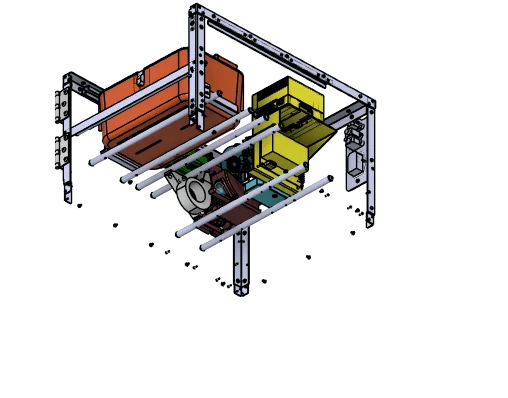
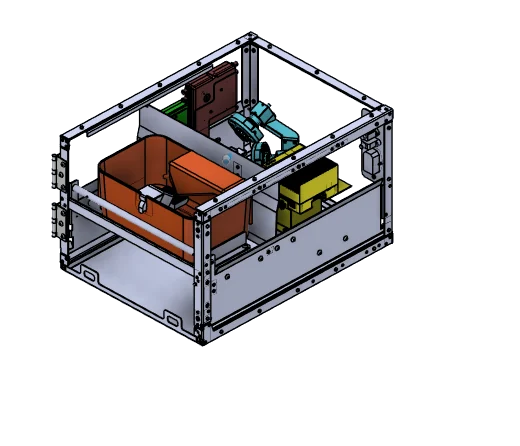
Reorganize work around the reach-training lineage
The three systems are one lineage, not three peers: reach-training, which
Ben helped build first, was superseded by the autonomous trainer, and the
trainer's codebase was then re-adapted back into reachAQ. Presenting all
three as separate entries would repeat itself, so:

- Project 02 is rewritten to cover the rig AND the control system, per
  the ask. It is now "Autonomous Behavioral Training Rig" and leads with
  the CAD work, since the 215-part enclosure and the three-axis pellet
  mechanism are Ben's design, not just the software on top.
- reachAQ is added as its own entry, because it demonstrates different
  skills: platform migration off embedded hardware, an instrumentation
  swap (PEAK CAN for Jetson-native CAN, NI-DAQ and PXI added), and a
  reproducible offline install for restricted networks.
- reach-training is context inside the reachAQ entry rather than a fourth
  entry, since the contribution there was partial.

Deliberately keeps the packaging emphasis in project 05 rather than
duplicating it in reachAQ, and words reachAQ as acquisition against the
motion-analysis entry's downstream analysis so the two do not collide.

The rig animation moves out of the hero into project 02's case study,
which required switching from scroll(root) to view(): the timeline has to
be relative to the figure now that it sits far below the fold.

Corrects a false claim from the previous commit. A closed <details> does
[…]

diff --git a/src/siteData.js b/src/siteData.js
@@ -152,23 +152,46 @@ export const projects = [
   },
   {
     id: "automated-multicamera-training-control-system",
-    title: "Closed-Loop Behavioral Training and Multi-Camera Acquisition",
+    title: "Autonomous Behavioral Training Rig",
     category: "automation",
-    tags: ["automation", "hardware", "data"],
+    tags: ["automation", "hardware", "data", "software"],
+    featured: true,
+    figure: "buildup",
+    summary:
+      "A self-operating neuroscience rig. I designed the enclosure and its mechanisms, then integrated synchronized cameras, a three-axis pellet delivery, and machine-learning tracking into a loop that runs training sessions with nobody in the room.",
+    challenge:
+      "Reach training needed an operator present for every session, which capped throughput and made results depend on who was running the rig.",
+    approach:
+      "Designed the enclosure, pellet mechanism, and mounts in CAD, then integrated multi-camera acquisition, DeepLabCut tracking, CAN bus motor control, and load-cell sensing into a closed loop with tone cues, barrier servos, and recovery paths for unattended overnight operation.",
+    role: "Designed the enclosure and mechanisms in CAD, and built, deployed, and maintain the integration that runs on them.",
+    tools: ["Fusion 360", "Python", "DeepLabCut", "CAN bus"],
+    bullets: [
+      "Designed a 215-part enclosure carrying every module, cable route, and panel connector.",
+      "Built a three-axis pellet delivery with servo scoop and barrier, driven over CAN.",
+      "Synchronized multi-camera capture with tracking and hardware control.",
+      "Closed the loop on detected movement, with load-cell and presence sensing as guards.",
+      "Designed repeatable startup, validation, and recovery so sessions survive being left alone.",
+    ],
+  },
+  {
+    id: "reachaq-acquisition-platform",
+    title: "reachAQ Acquisition Platform",
+    category: "software",
+    tags: ["software", "data", "automation"],
     featured: true,
     summary:
-      "An automated rig synchronizing multi-camera capture, machine-learning tracking, and control hardware, cutting the supervision long training sessions used to need.",
+      "The autonomous trainer's codebase re-adapted back into an operator-run acquisition system, moved off embedded hardware onto workstations with laboratory DAQ instrumentation.",
     challenge:
-      "Coordinating video, tracking, and physical devices reliably while reducing the manual supervision required during live operation.",
+      "The operator-run reach-training system I helped build first was superseded by the autonomous trainer, which handled sessions, recovery, and data far more rigorously. Those improvements were locked to Jetson hardware and to running unattended, so operator-driven work could not benefit from them.",
     approach:
-      "Integrated acquisition, DeepLabCut tracking, CAN bus control, and operator safeguards into a closed-loop workflow with deployment checks.",
-    role: "Built the integration logic and supported deployment, validation, maintenance, and daily operation.",
-    tools: ["Python", "DeepLabCut", "CAN bus", "Multi-camera capture"],
+      "Took the trainer's module set as the base rather than forking a copy, and re-adapted it for operator-modulated acquisition on x86_64 Ubuntu workstations: PEAK CAN in place of Jetson-native CAN, NI-DAQ and PXI instrumentation added, and module boundaries kept loose enough that each installs independently.",
+    role: "Led the re-platforming, the instrumentation swap, and the reproducible offline install path.",
+    tools: ["Python", "NI-DAQ / PXI", "PEAK CAN", "FLIR Spinnaker"],
     bullets: [
-      "Synchronized camera capture with tracking and hardware control.",
-      "Implemented closed-loop responses from detected movement.",
-      "Designed repeatable startup and validation procedures.",
-      "Maintained practical recovery paths for live research use.",
+      "Carried the trainer's core, video, device, inference, and behavior modules onto a new platform.",
+      "Replaced Jetson-native CAN with PEAK CAN and added NI-DAQ and PXI acquisition.",
+      "Packaged a staged, checksum-verified offline install for workstations with restricted networking.",
+      "Documented the build so a second rig can be reproduced without the original builder present.",
     ],
   },
   {

diff --git a/src/spa.css b/src/spa.css
@@ -631,9 +631,8 @@ summary {
 
 @media (min-width: 62rem) {
   .hero-inner {
-    grid-template-columns: minmax(0, 6fr) minmax(0, 5fr);
-    gap: clamp(2.5rem, 5vw, 4.5rem);
-    align-items: center;
+    grid-template-columns: minmax(0, 7fr) minmax(0, 4fr);
+    gap: clamp(3rem, 6vw, 6rem);
   }
 }
 
@@ -666,39 +665,39 @@ summary {
 }
 
 /* --- rig build-up -------------------------------------------------------
-   A 24-frame sprite strip scrubbed by document scroll. Frame 0 is the
-   exploded rig, frame 23 is assembled.
+   A 24-frame sprite strip scrubbed by scroll. Frame 0 is the exploded rig,
+   frame 23 is assembled.
 
-   The poster is not just a placeholder: it is the entire image for anyone
-   who cannot animate this, so only browsers with scroll-driven animation
-   pay for the 540KB strip. Everyone else keeps a 30KB still of the
-   finished rig.
+   Lives inside the project's <details> case study. A closed <details> does
+   NOT prevent a CSS background from being fetched (measured: the strip loaded
+   before the details was opened), so the strip URL is gated behind .is-live,
+   which React adds on the toggle event. Only the 23KB poster loads up front.
 
-   Uses scroll(root) rather than view() deliberately. The figure sits above
-   the fold, so a view() timeline would already be past its entry range at
-   load and would show the assembled state immediately.
+   view(), not scroll(root), because this sits far below the fold: the
+   timeline has to be relative to the figure, not the document. (The reverse
+   was true when this was in the hero, where view() would already have been
+   past its entry range at load.)
+
+   The poster is the whole image for anyone who cannot animate it, so only
+   browsers with scroll-driven animation pay for the strip.
    -------------------------------------------------------------------- */
 
-.hero-aside {
-  display: grid;
-  gap: clamp(1.5rem, 3vw, 2.25rem);
-  align-content: start;
+.rig-figure-wrap {
+  grid-column: 1 / -1;
+  margin: 0 0 clamp(0.75rem, 2vw, 1.5rem);
 }
 
-.hero-figure-wrap {
-  margin: 0;
-}
-
-.hero-figure {
+.rig-figure {
   width: 100%;
-  aspect-ratio: 508 / 398;
+  max-width: 40rem;
+  aspect-ratio: 520 / 446;
   background-repeat: no-repeat;
   background-position: center;
   background-size: contain;
   background-image: url("/rig/buildup-poster.webp");
 }
 
-.hero-figure-caption {
+.rig-figure-caption {
   margin-top: 0.6rem;
   font-family: var(--font-mono);
   font-size: 0.6875rem;
@@ -717,18 +716,14 @@ summary {
 }
 
 @media (prefers-reduced-motion: no-preference) {
-  @supports (animation-timeline: scroll()) {
-    .hero-figure {
+  @supports (animation-timeline: view()) {
+    .rig-figure.is-live {
       background-image: url("/rig/buildup.webp");
       background-size: 2400% 100%; /* 24 frames side by side */
       background-position-x: 0%;
       animation: rig-buildup steps(24, jump-none) both;
-      animation-timeline: scroll(root block);
-      /* Must finish while the figure is still on screen. The figure sits near
-         the top of the page, so it starts leaving the viewport almost
-         immediately; a longer range means the last frames play after it has
-         already scrolled past. 72vh was wrong for exactly that reason. */
-      animation-range: 0 22vh;
+      animation-timeline: view();
+      animation-range: entry 0% cover 42%;
     }
   }
 }

diff --git a/src/App.jsx b/src/App.jsx
@@ -123,6 +123,11 @@ function useSectionSpy(setActive) {
    -------------------------------------------------------------------------- */
 
 const WorkEntry = memo(function WorkEntry({ project, index }) {
+  /* A closed <details> does NOT stop a CSS background from being fetched, so
+     the sprite has to be attached on open or it costs every visitor 648KB
+     they may never look at. */
+  const [figureLive, setFigureLive] = useState(false);
+
   return (
     <article id={`project-${project.id}`} className="work-entry reveal">
       <div className="work-entry-head">
@@ -156,9 +161,27 @@ const WorkEntry = memo(function WorkEntry({ project, index }) {
         </div>
       </div>
 
-      <details className="case">
+      <details
+        className="case"
+        onToggle={(event) => {
+          if (event.currentTarget.open) setFigureLive(true);
+        }}
+      >
         <summary className="case-summary">Case study</summary>
         <div className="case-body">
+          {project.figure === "buildup" ? (
+            <figure className="rig-figure-wrap">
+              <div
+                className={`rig-figure ${figureLive ? "is-live" : ""}`}
+                role="img"
+                aria-label="Exploded view of the training rig collapsing into its assembled form: enclosure frame, mouse cage, tunnel module, three-axis pellet delivery, observation camera, and Jetson compute."
+              />
+              <figcaption className="rig-figure-caption">
+                Enclosure and modules, assembly sequence. Scroll to assemble.
+              </figcaption>
+            </figure>
+          ) : null}
+
           <div className="case-block">
             <h4>Problem</h4>
             <p>{project.challenge}</p>
@@ -387,27 +410,14 @@ export default function App() {
               </div>
             </div>
 
-            <div className="hero-aside">
-              <figure className="hero-figure-wrap rise" style={{ "--delay": "200ms" }}>
-                <div
-                  className="hero-figure"
-                  role="img"
-                  aria-label="Exploded view of the automated behavioral training rig assembling: enclosure frame, mouse cage, tunnel module, pellet delivery, observation camera, and Jetson compute."
-                />
-                <figcaption className="hero-figure-caption">
-                  Auto-trainer rig, assembly sequence
-                </figcaption>
-              </figure>
-
-              <dl className="hero-facts rise" style={{ "--delay": "140ms" }}>
-                {heroFacts.map((fact) => (
-                  <div className="fact" key={fact.label}>
-                    <dt className="fact-label">{fact.label}</dt>
-                    <dd className="fact-value">{fact.value}</dd>
-                  </div>
-                ))}
-              </dl>
-            </div>
+            <dl className="hero-facts rise" style={{ "--delay": "140ms" }}>
+              {heroFacts.map((fact) => (
+                <div className="fact" key={fact.label}>
+                  <dt className="fact-label">{fact.label}</dt>
+                  <dd className="fact-value">{fact.value}</dd>
+                </div>
+              ))}
+            </dl>
           </div>
         </section>
 

diff --git a/docs/fusion-animation-pipeline.md b/docs/fusion-animation-pipeline.md
@@ -126,16 +126,30 @@ Three things worth keeping:
 
 1. **The poster carries real weight.** The strip is declared only inside
    `@media (prefers-reduced-motion: no-preference)` + `@supports
-   (animation-timeline: scroll())`. Anyone outside that gets the 23 KB still of
-   the assembled rig and never downloads the 565 KB strip.
-2. **`scroll(root)`, not `view()`, for an above-the-fold figure.** A `view()`
-   timeline is already past its `entry` range at load for anything in the first
-   viewport, so it would show the final frame immediately.
-3. **The range has to finish while the figure is still on screen.** The figure
-   sits near the top of the page and starts leaving the viewport almost at once.
-   `animation-range: 0 72vh` was wrong: at 52% of the animation the figure had
-   already scrolled away, so the last half never got seen. `0 22vh` completes at
-   ~212 px of scroll with the figure still 78% visible.
+   (animation-timeline: ...)`. Anyone outside that gets the ~25 KB still of the
+   assembled rig and never downloads the strip.
+2. **Timeline choice depends on where the figure sits, and it is not
+   interchangeable.**
+   - Below the fold: `view()`. The timeline is relative to the figure.
+   - Above the fold: `scroll(root)`. A `view()` timeline is already past its
+     `entry` range at load for anything in the first viewport, so it would show
+     the final frame immediately.
+
+   The figure moved from the hero into the project case study during this work,
+   which meant switching from `scroll(root) 0 22vh` to
+   `view() entry 0% cover 42%`. Verified scrubbing 0 -> 26 -> 52 -> 78 -> 100%.
+3. **For an above-the-fold figure, the range must finish while it is still on
+   screen.** `animation-range: 0 72vh` was wrong: at 52% of the animation the
+   figure had already scrolled away, so the last half never got seen. `0 22vh`
+   completed at ~212 px with the figure still 78% visible.
+4. **A closed `<details>` does NOT stop a CSS background from being fetched.**
+   Measured: the strip loaded before the case study was ever opened, so
+   "put it in a disclosure for free lazy-loading" is false. The strip URL is
+   gated behind a `.is-live` class that React adds on the `toggle` event.
+   Confirmed: poster only before open, strip fetched on open. CSS backgrounds
+   have no declarative lazy-load, so gating on an event is the only option
+   short of switching to `<img loading="lazy">`, which would break the
+   percentage `background-size` the responsive sprite depends on.
 
 **Frame 0 must be worth looking at.** The first tuned pass built the rig
 sequentially, so frame 0 was a bare grey skeleton and the colourful modules only
